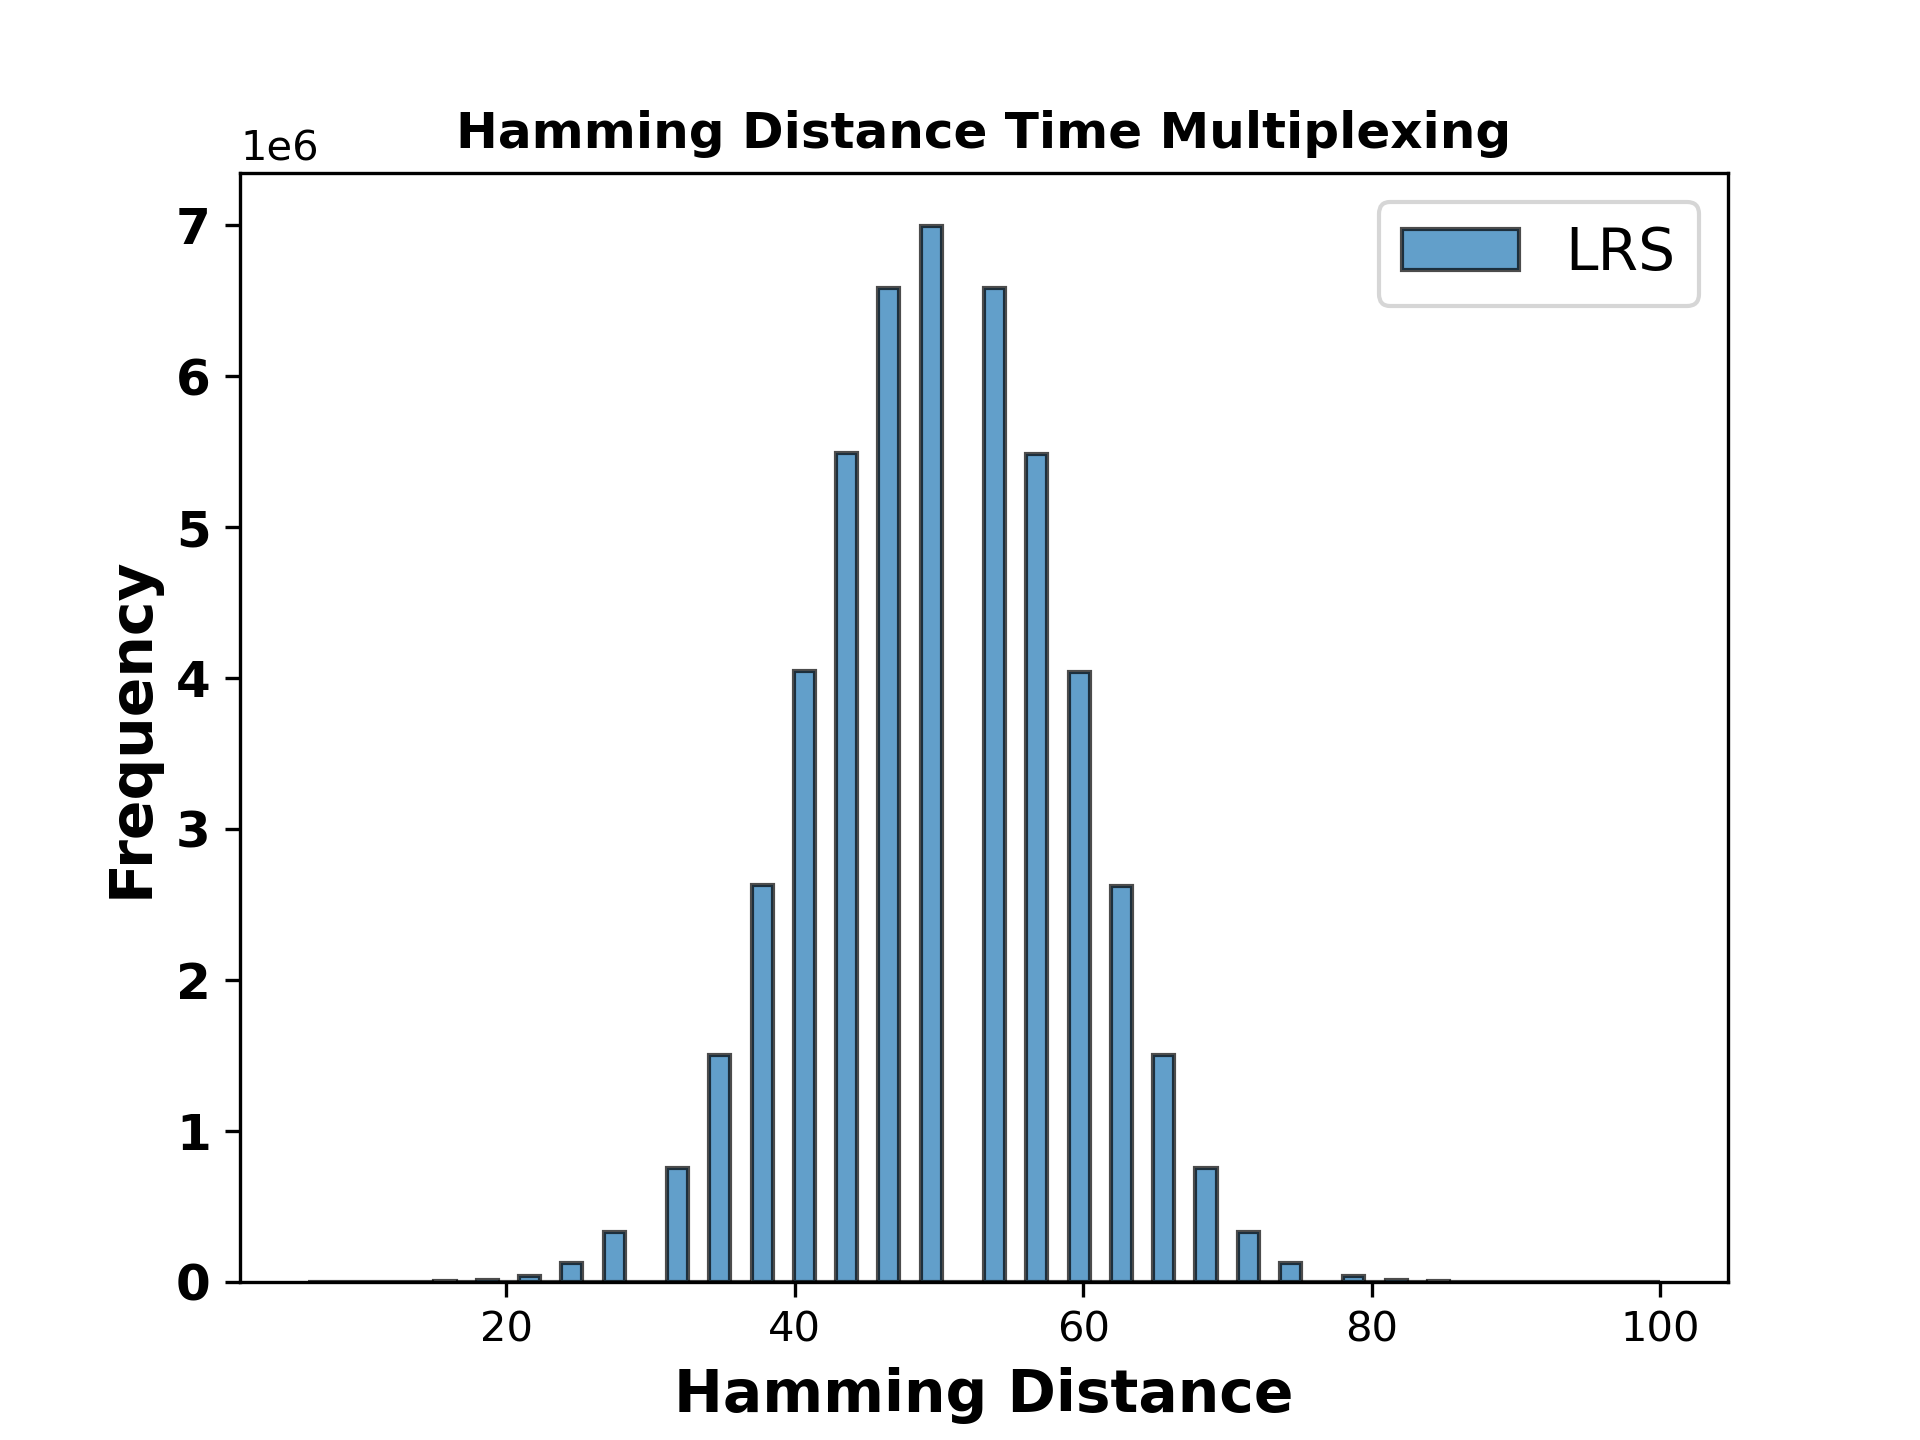
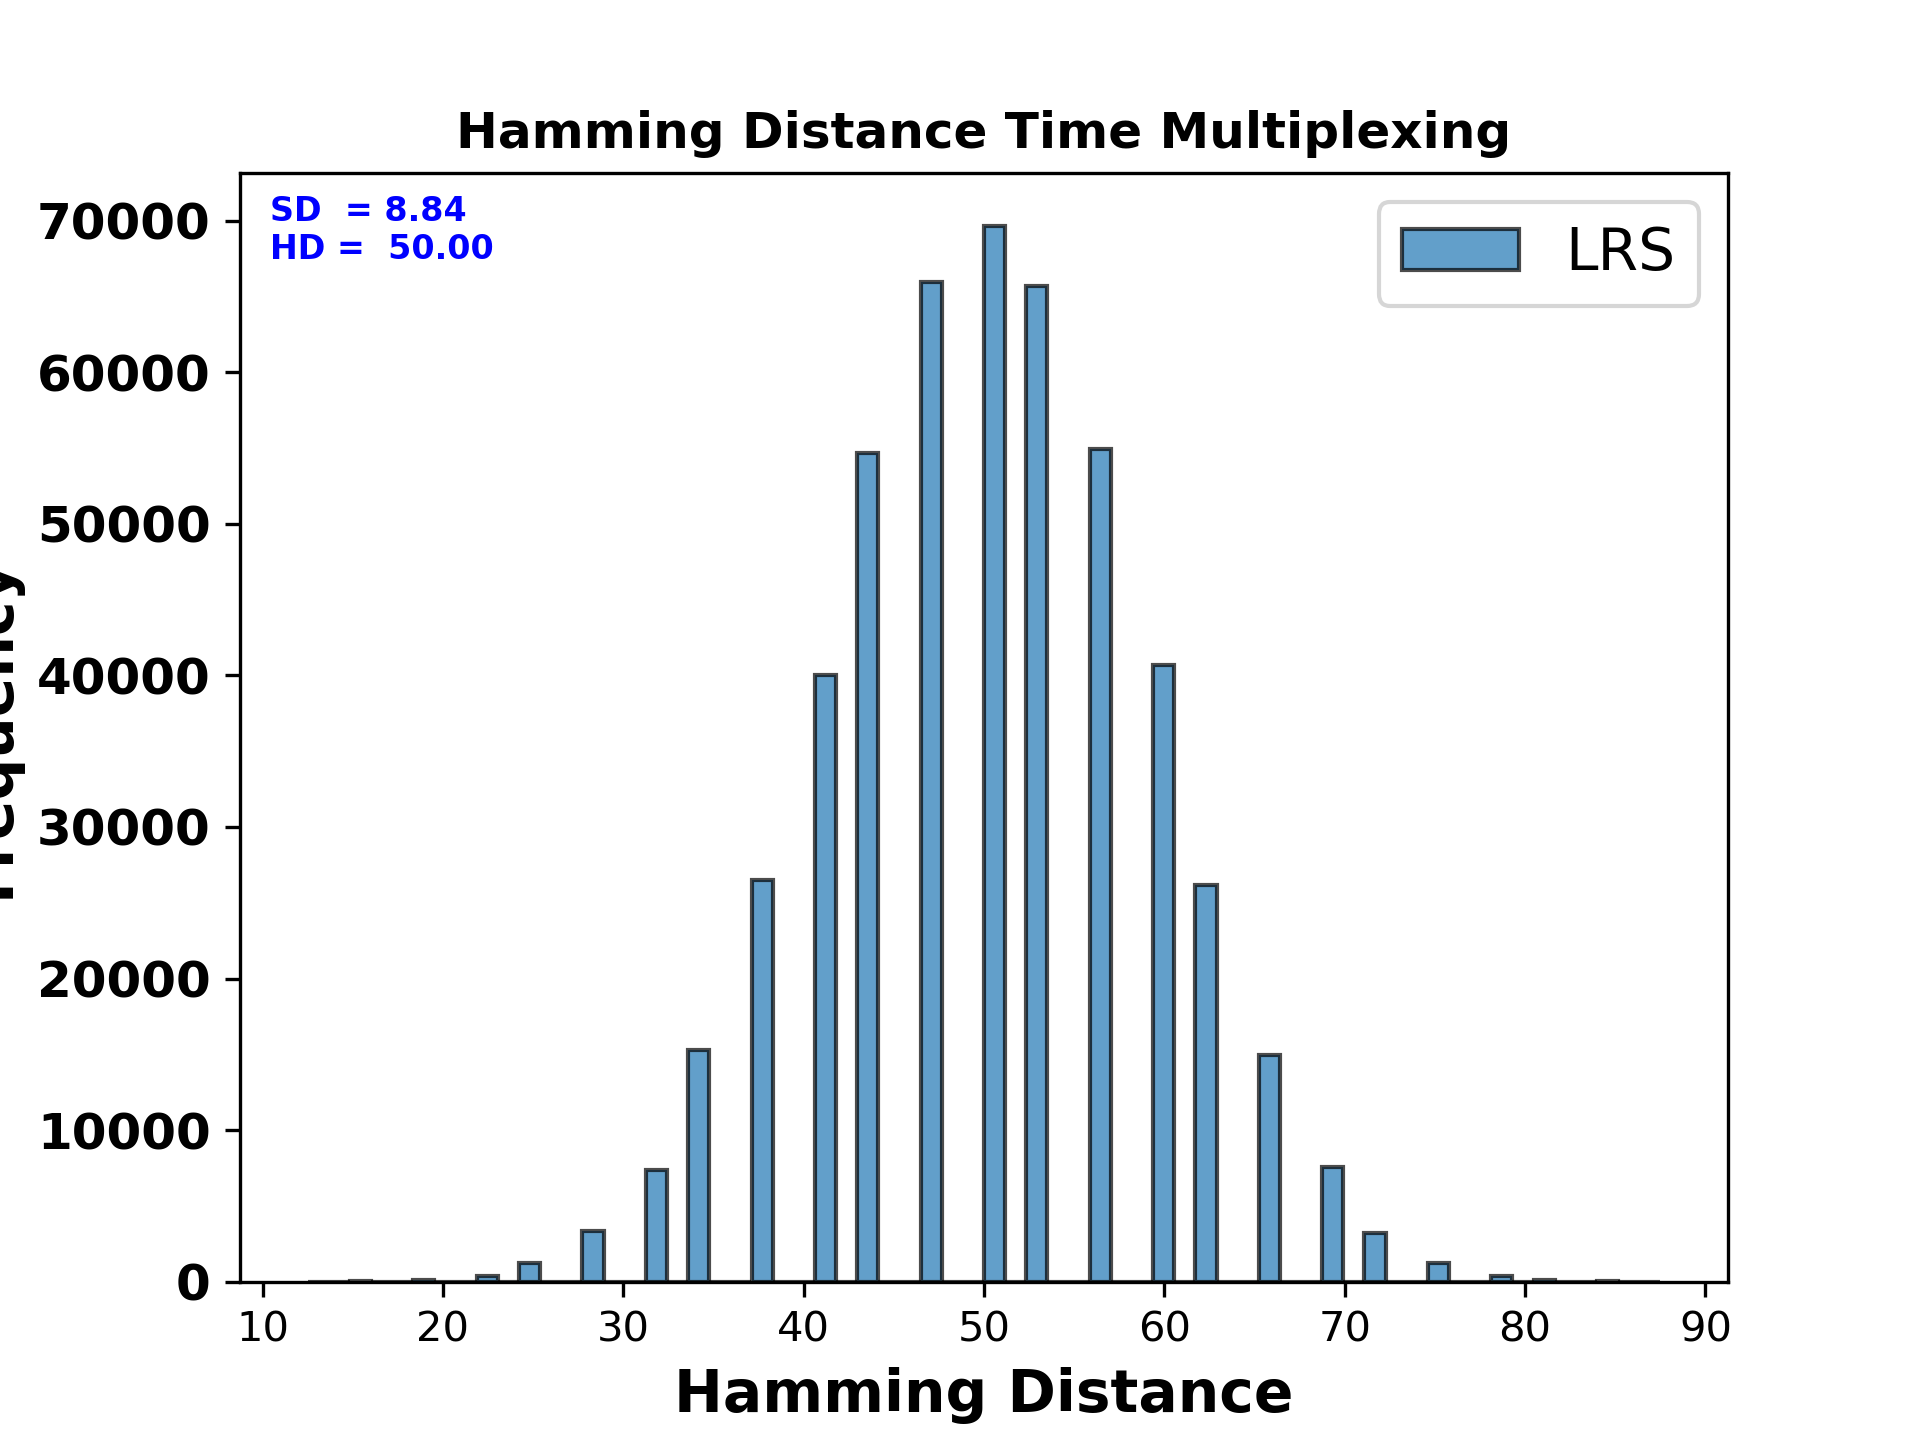
lab main

diff --git a/hamming_distance_cal.py b/hamming_distance_cal.py
@@ -38,8 +38,8 @@ class HammingDistanceCalculator:
             
     def inter_chip(self):
         distances = []
-        # pufs = len(self.data)
-        pufs = 10000
+        pufs = len(self.data)
+        # pufs = 1000
         s = 0
 
         # Ensure the binary_responses are in a NumPy array format
@@ -84,6 +84,11 @@ class HammingDistanceCalculator:
 
         # Plot histogram for Hamming distances
         plt.hist(distances, bins=64, edgecolor='k', alpha=0.7, label='LRS')
+
+        plt.text(0.02, 0.98, f'SD  = {np.std(distances) :.2f}\nHD = {inter_hd : .2f}', 
+                            horizontalalignment='left', verticalalignment='top', 
+                            transform=plt.gca().transAxes, fontsize=8, color='k', weight='bold', 
+                            bbox=dict(facecolor='white', edgecolor='none', pad=3))
 
         # Add legend
         plt.legend(fontsize=14)
